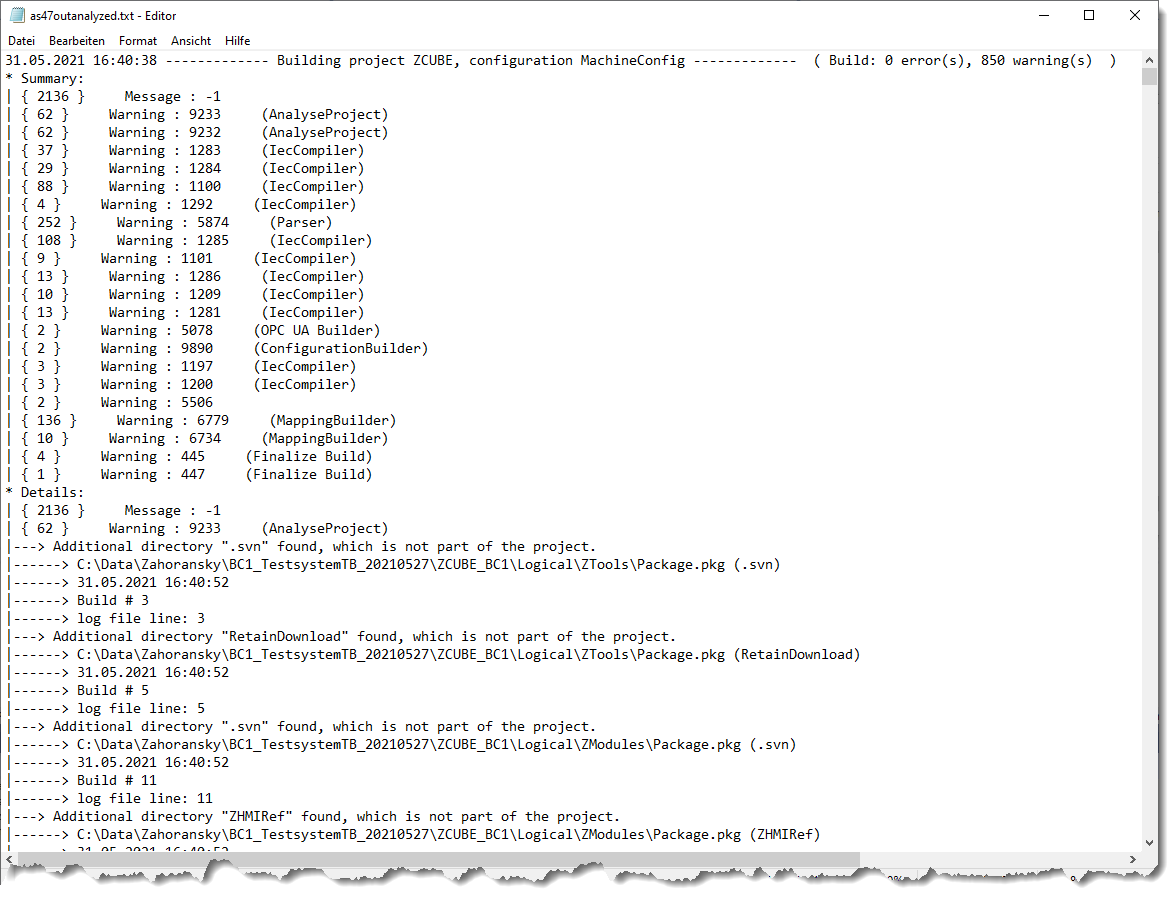
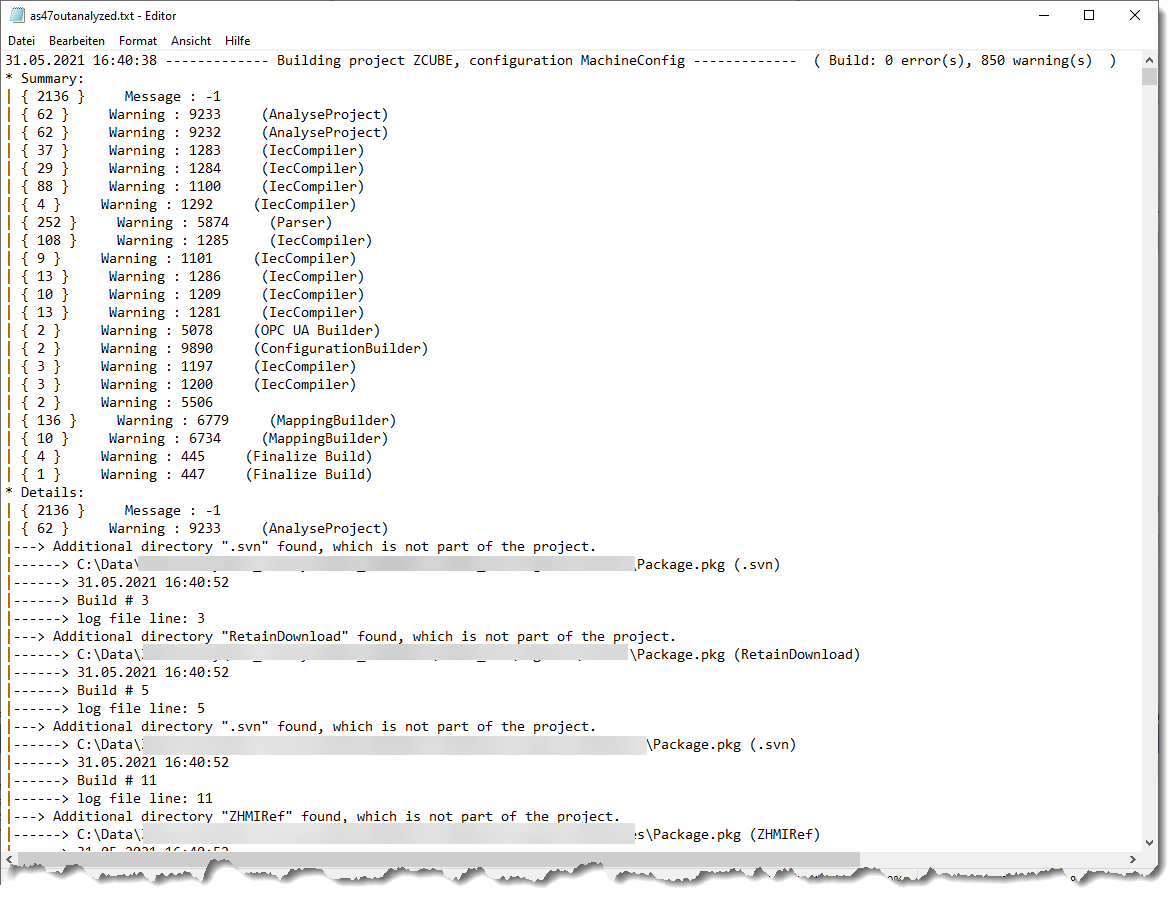
added readme and license for /misc content

diff --git a/Misc/README.md b/Misc/README.md
@@ -1,0 +1,18 @@
+# BnRCommunitySamples / Misc
+
+The section "Misc" is used for tools outside of Automation Studio, but still having some dependency to AS / AR.
+
+### All content in this repository was developed for my private projects or educational reasons. 
+
+
+## Description
+
+Here's a very short description about the content of each package:
+* **"AsOutputAnalyze"** - Windows program to structure Automation Studio build logs (how to use: see [README.md](https://github.com/hefnera71/BnRCommunitySamples/blob/master/Misc/ASOutputAnalyse/readme.md) )
+* **"LoadSysDump"** - CMD-file using cURL to load a system dump for the PLC ([README.md](https://github.com/hefnera71/BnRCommunitySamples/blob/master/Misc/LoadSysDump/readme.md) )
+* **"RuntimeUtilityCenter"** - a collection of RUC samples published via B&R Community
+  * **"RandomWaitInPil"**: PIL + CMD-file to wait a random count of seconds in RUC batch process ([README.md](https://github.com/hefnera71/BnRCommunitySamples/blob/master/Misc/RuntimeUtilityCenter/RandomWaitInPil/readme.md))
+  * **"CounterInPil"**: PIL + CMD-file to count in RUC batch process ([README.md](https://github.com/hefnera71/BnRCommunitySamples/blob/master/Misc/RuntimeUtilityCenter/CounterInPil/readme.md))
+  * **"SerialConnectionTest"**: PIL-file to probe serial online connection parameters ([README.md](https://github.com/hefnera71/BnRCommunitySamples/blob/master/Misc/RuntimeUtilityCenter/SerialConnectionTest/readme.md))
+
+
